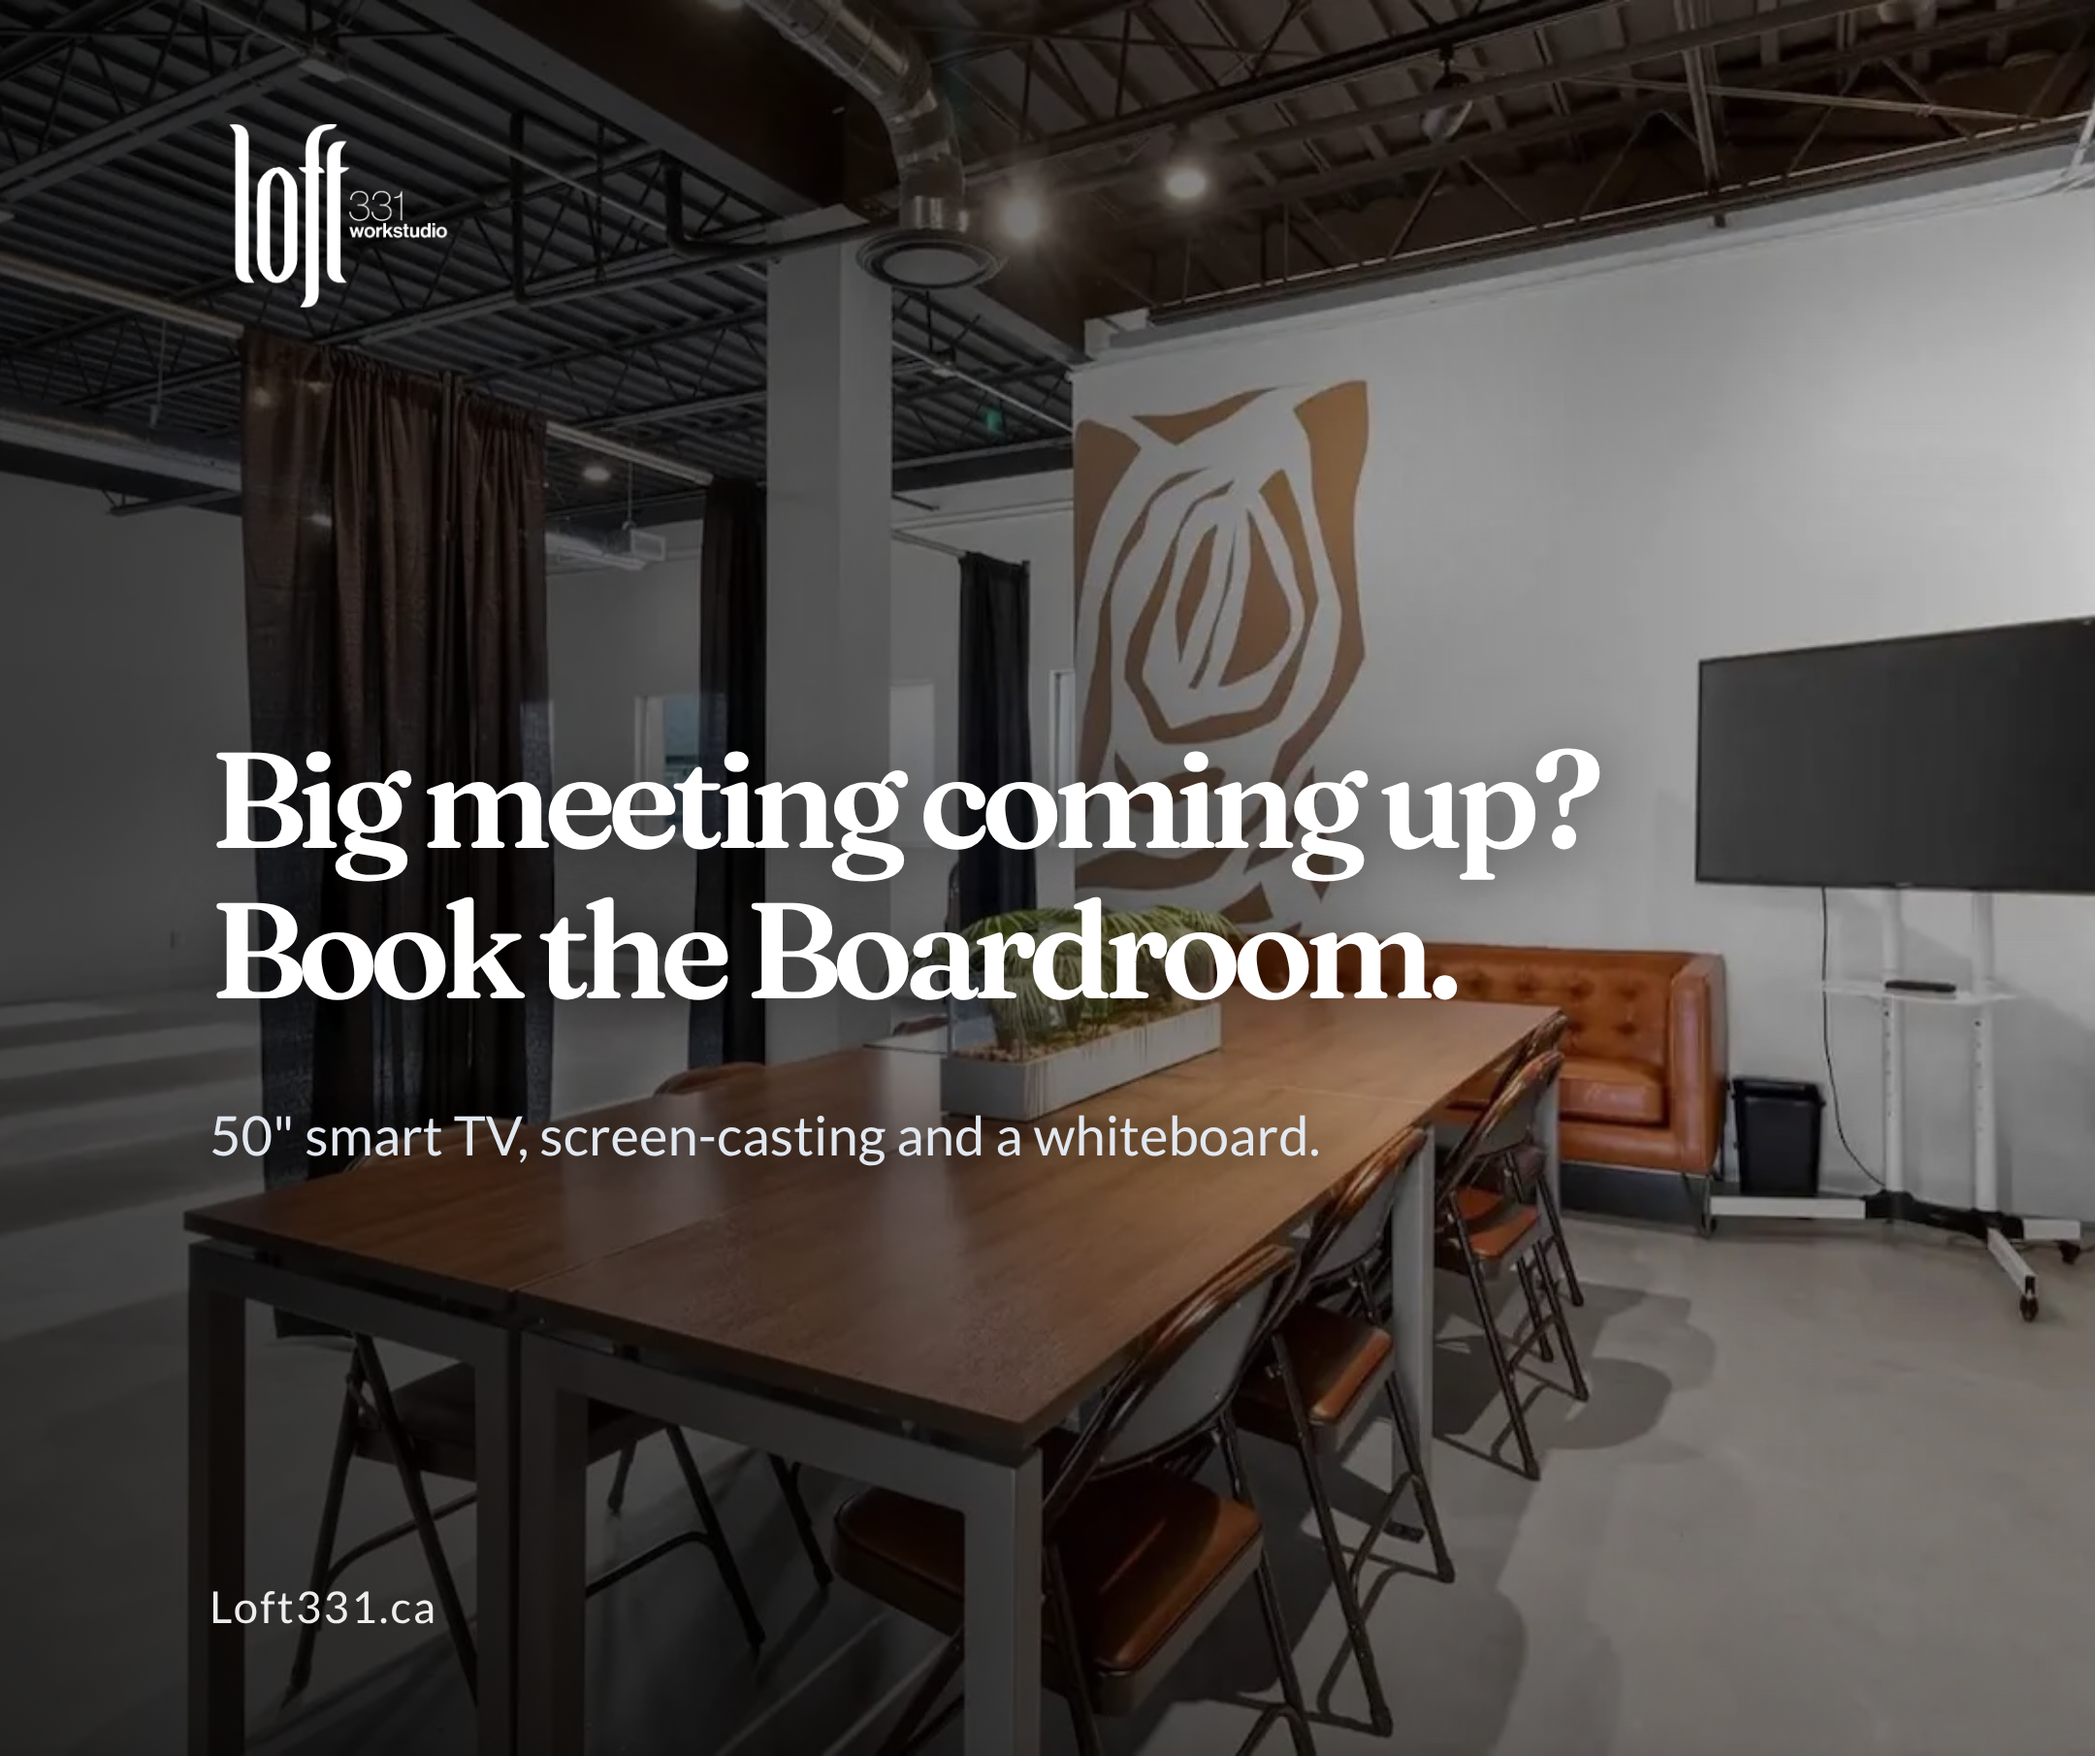
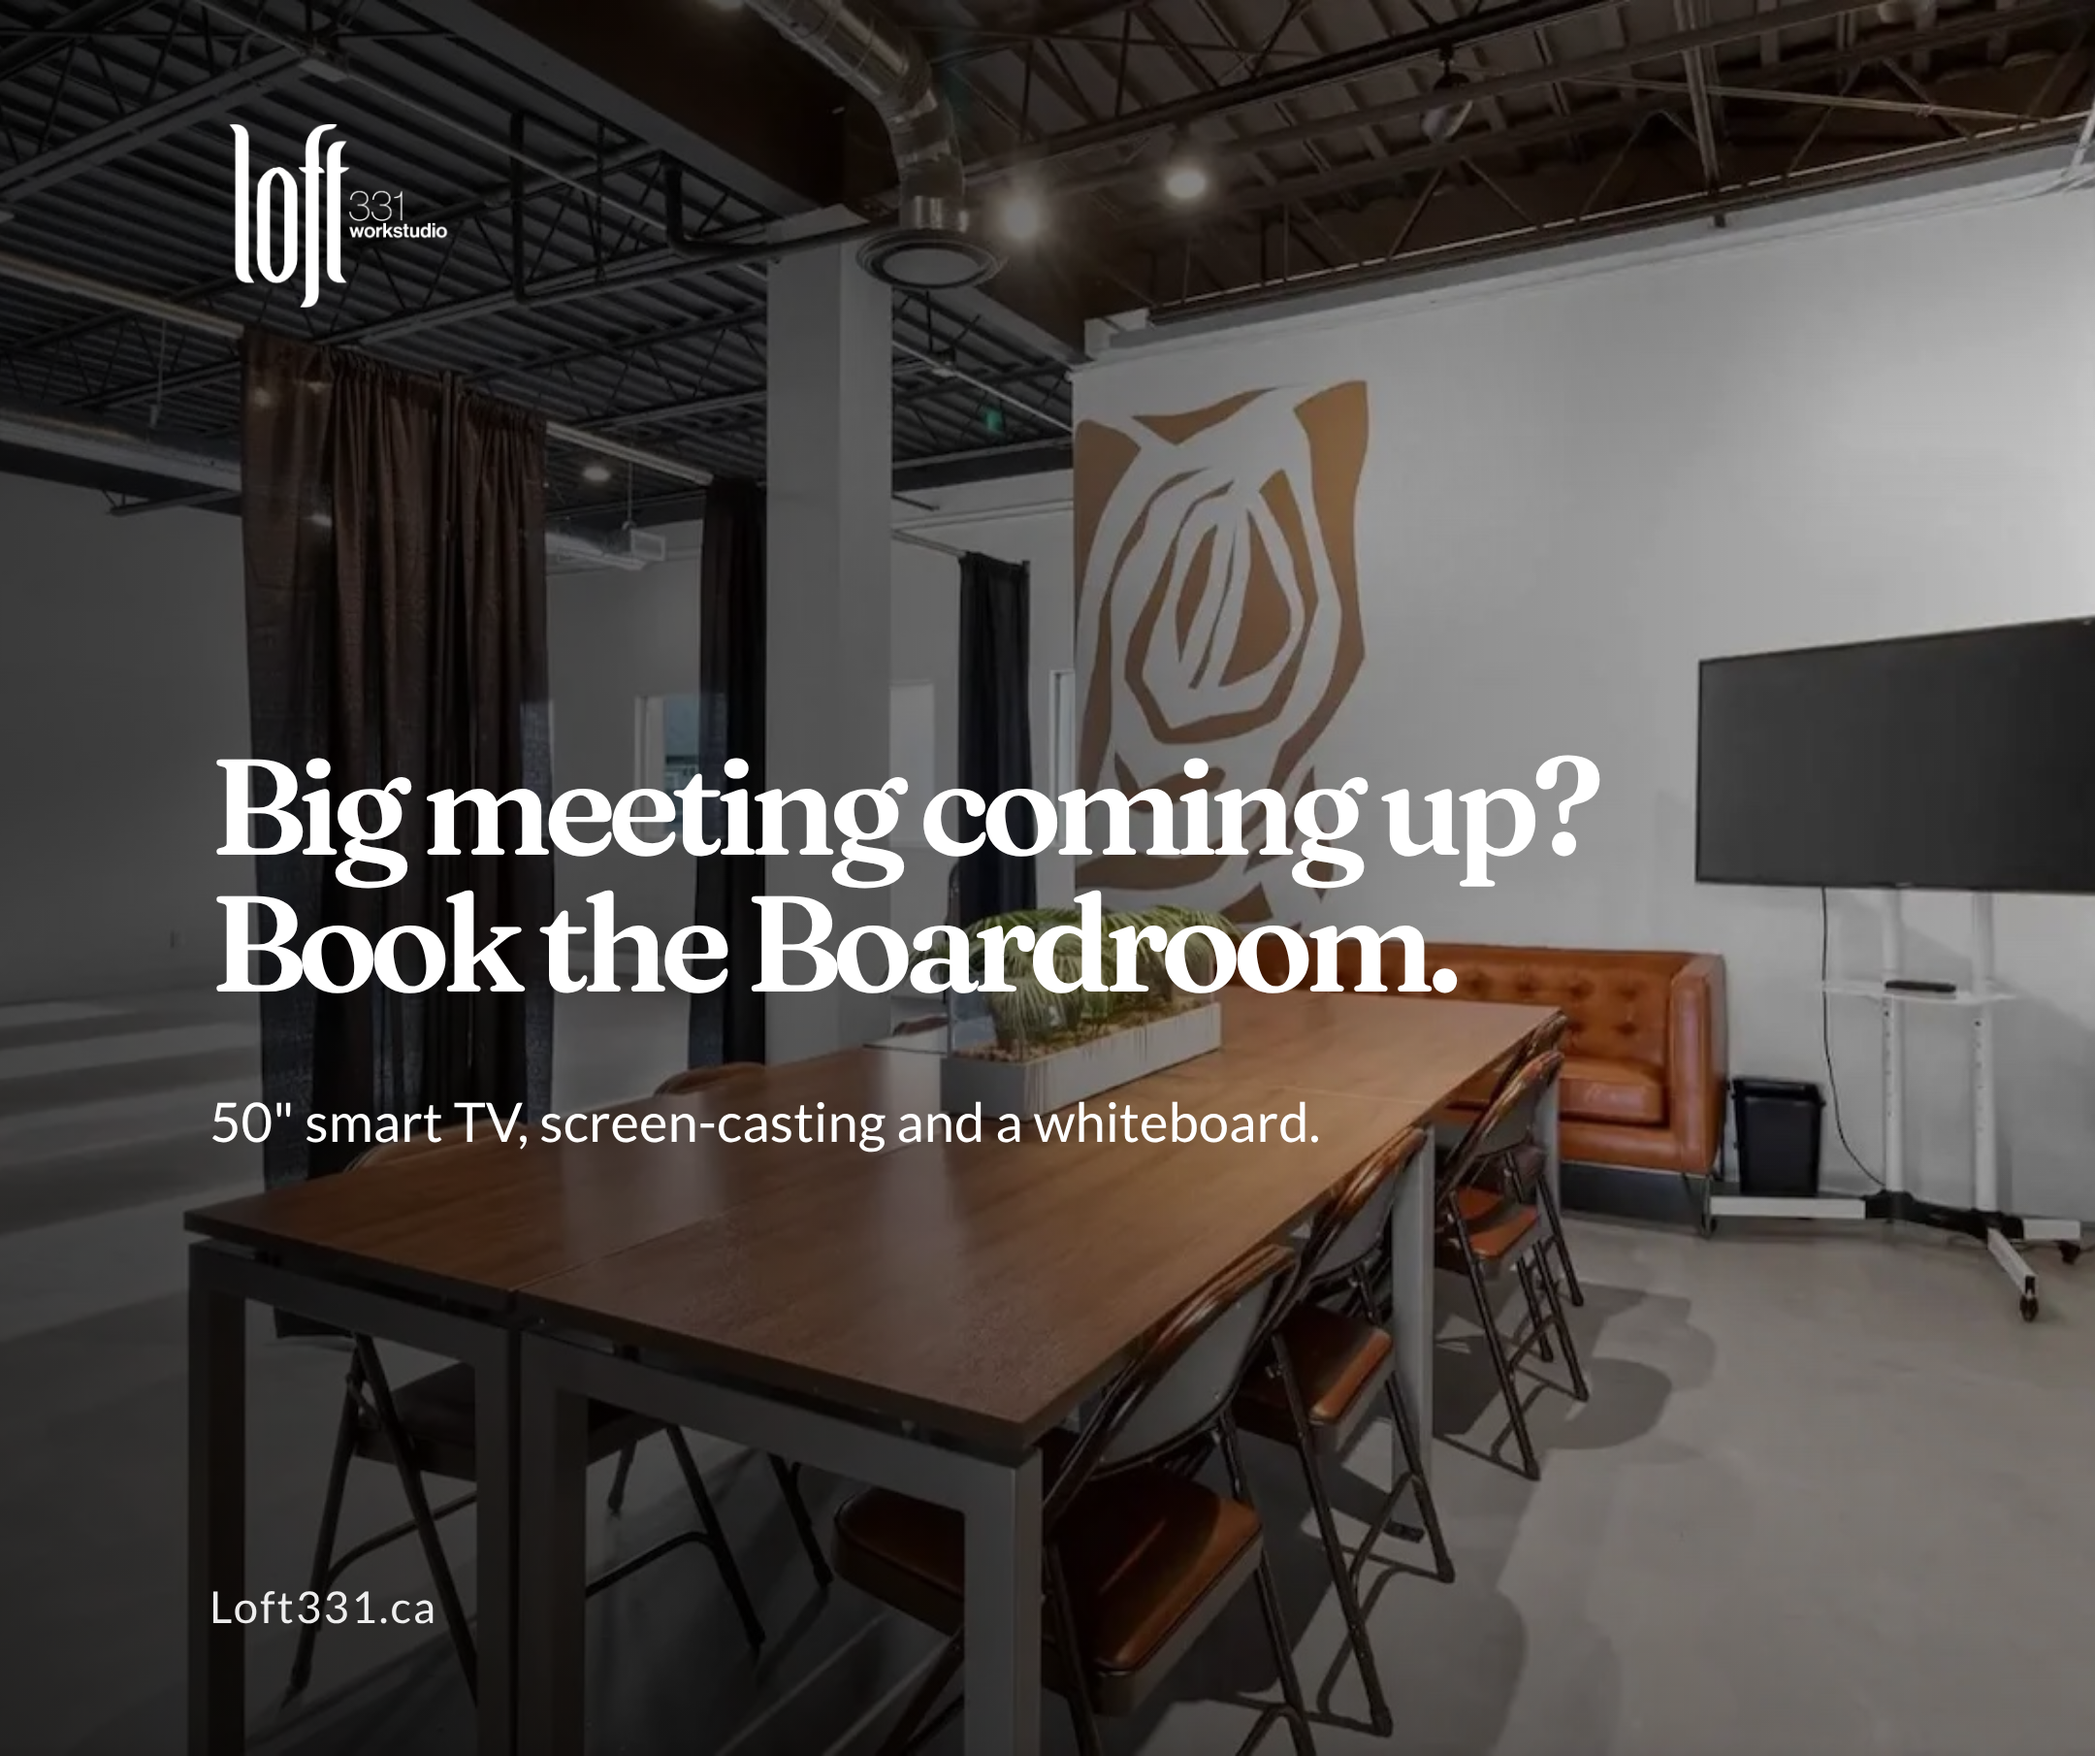
Vivid template: match brand typography (line height 1.0, white Lato subline, no text shadow); one sentence per headline line
Claude-Session: https://claude.ai/code/session_018FS3dSG8LGvce1L6SkbsmJ

Changed region(s): [[0.0931, 0.4331, 0.7755, 0.5878], [0.0931, 0.6188, 0.6204, 0.6807]]

diff --git a/tools/social/template-spotlight-vivid.html b/tools/social/template-spotlight-vivid.html
@@ -12,8 +12,8 @@
     rgba(0,0,0,0.0);}
   .logo{position:absolute;top:7vh;left:10vw;height:9.3vw;display:block;}
   .content{position:absolute;left:0;right:0;top:calc(7vh + 9.3vw);bottom:calc(7vh + 2.6vw);display:flex;flex-direction:column;justify-content:center;padding:0 10vw;}
-  .headline{font-size:6.5vw;line-height:1.1;color:var(--color-white);max-width:80vw;;text-shadow:0 0.3vw 2.5vw rgba(0,0,0,0.45);}
-  .subline{font-family:var(--font-sans);font-size:2.6vw;line-height:var(--leading-snug);color:var(--color-gray-200);margin-top:3.5vw;max-width:80vw;;text-shadow:0 0.2vw 1.6vw rgba(0,0,0,0.5);}
+  .headline{font-size:6.5vw;line-height:var(--leading-tight);color:var(--color-white);max-width:80vw;}
+  .subline{font-family:var(--font-sans);font-weight:400;font-size:2.6vw;line-height:var(--leading-snug);color:var(--color-white);margin-top:3.5vw;max-width:80vw;}
   .site{position:absolute;left:10vw;bottom:7vh;line-height:1.2;font-family:var(--font-sans);font-size:2.1vw;color:var(--color-white);opacity:0.92;letter-spacing:var(--tracking-wide);}
 </style>
 </head>
